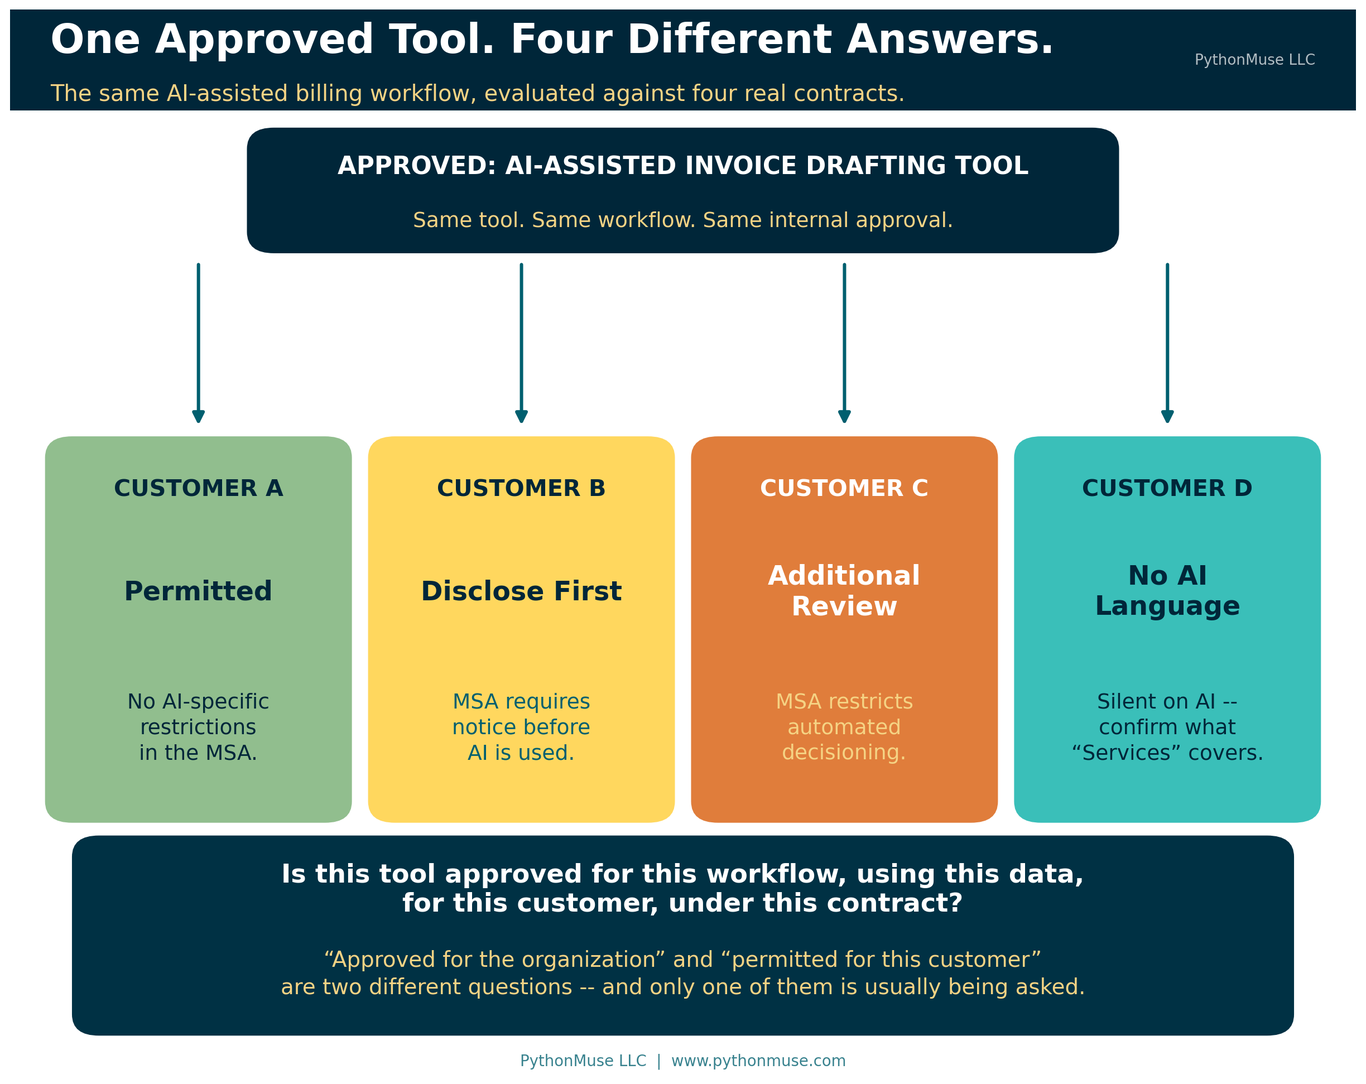
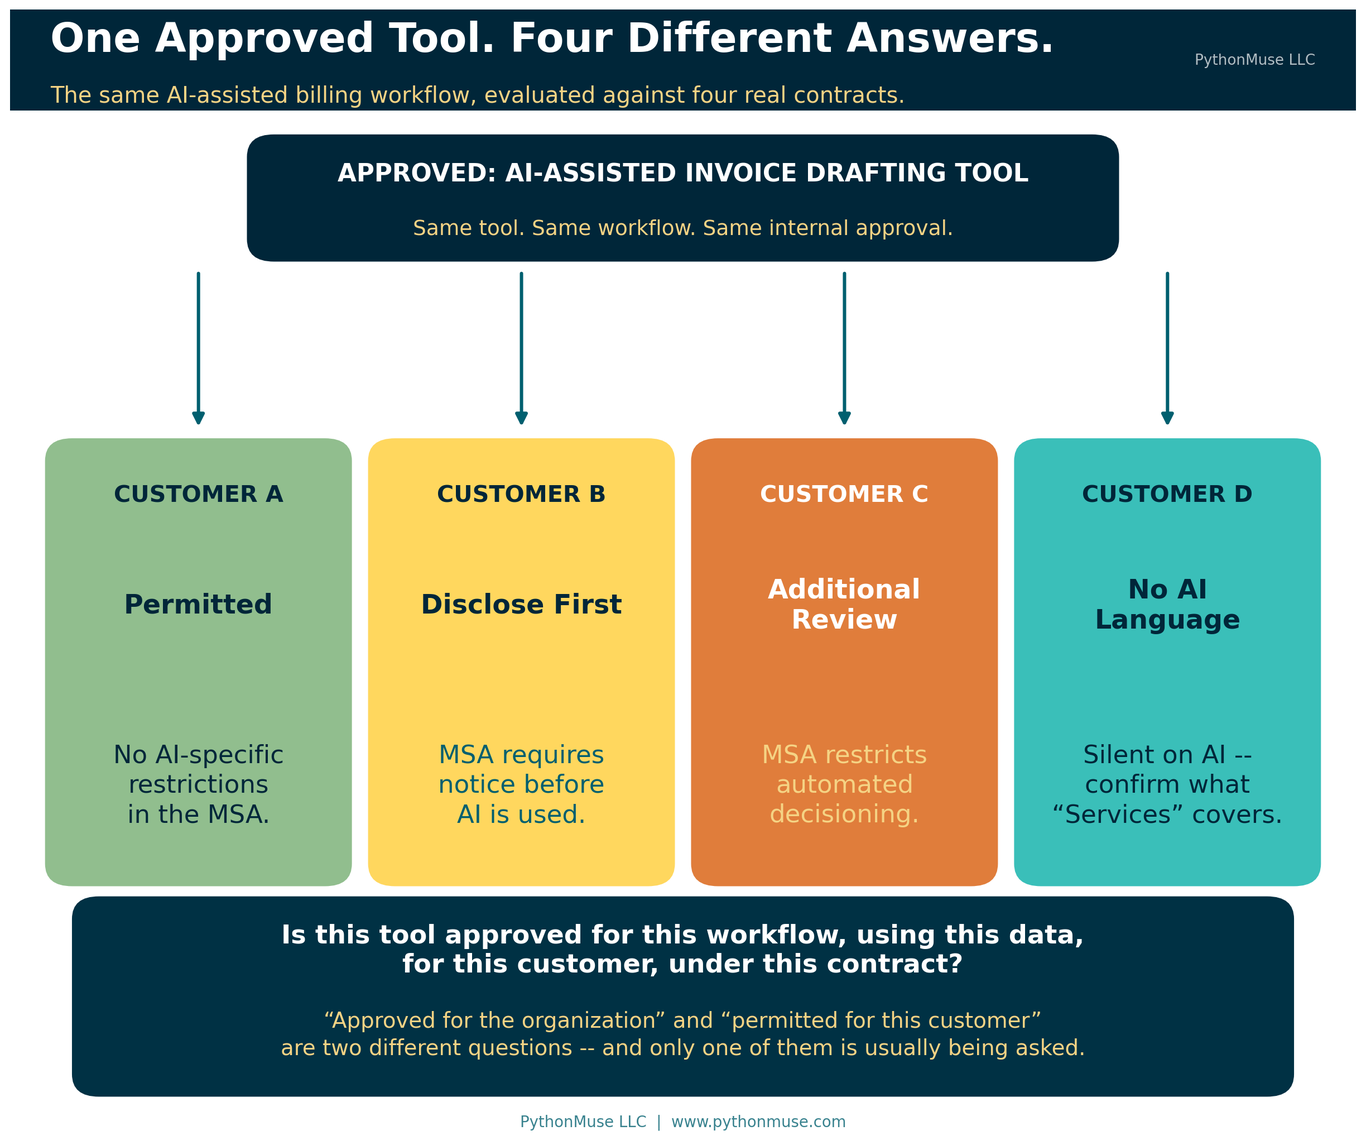
Further enlarge text in four Article 38 visuals per feedback
- 38_customer_dimension.png: enlarged the bottom (contract-verdict)
  line in each of the four customer cards; grew the card height and
  figure size to keep it inside the box.
- 38_process_vs_train.png: enlarged the header subtitle, the
  secondary 'What it means' / source labels in both cards, and the
  bottom banner's explanatory paragraph; fixed a resulting overflow
  where the last row dropped below the card's bottom edge.
- 38_service_layers.png: enlarged the bolded punchline line in each
  layer's card and wrapped the two longest ones onto a second line so
  the Layer 2 line ('This is where AI shows up first...') no longer
  runs past the card boundary.
- 38_social_square.png: the second line in each of the top two boxes
  is now uppercase (matching the title above it, not lowercase) and
  enlarged, wrapped onto two lines to stay inside the box.

Also includes the article's own minor copy trim (unrelated, made
directly in the working file).

diff --git a/articles/38-ai-workflow-customer-contract/generate_visuals.py b/articles/38-ai-workflow-customer-contract/generate_visuals.py
@@ -218,17 +218,17 @@ LAYERS3 = [
      "Clear."),
     ("LAYER 2\nSUPPORTING\nACTIVITIES", OCEAN_TEAL,
      "Schedule the appointment. Create the work order. Draft the invoice.",
-     "This is where AI shows up first — and the AI never touches the oil filter.",
+     "This is where AI shows up first —\nand the AI never touches the oil filter.",
      "Depends how 'Services' is defined."),
     ("LAYER 3\nINTERNAL\nANALYSIS", SEA_GREEN,
      "Profitability analysis. Forecasting. Management reporting.",
-     "Still uses the customer's information, several steps removed.",
+     "Still uses the customer's information,\nseveral steps removed.",
      "Rarely what the drafter had in mind."),
 ]
 
 
 def make_service_layers():
-    fig, ax = blank_axes((13.4, 11.4))
+    fig, ax = blank_axes((13.4, 12.4))
     add_header_bar(fig, "Where Does the Service Actually End?",
                    "The same customer engagement, in three layers -- and AI doesn't stay in layer one.",
                    height=0.088)
@@ -246,12 +246,19 @@ def make_service_layers():
                     linespacing=1.3)
         rounded_box(ax, (body_x, y), body_w, row_h, LIGHT_GRAY,
                     text_color=DEEP_NAVY, text="", edge=OCEAN_TEAL, lw=1.1)
-        ax.text(body_x + 0.028, y + row_h * 0.76, doing, fontsize=17.5,
+        ax.text(body_x + 0.028, y + row_h * 0.83, doing, fontsize=17.5,
                 color=DEEP_NAVY, ha="left", va="center", zorder=4)
-        ax.text(body_x + 0.028, y + row_h * 0.48, note, fontsize=17.5,
+        # The bolded "punchline" line -- enlarged per feedback, and the one
+        # long enough (Layer 2) to need a manual line break to stay inside
+        # the card at the larger size. The figure was made taller (12.4in,
+        # up from 11.4in) rather than growing row_h, so this row keeps the
+        # same fraction of the layout but gets more physical inches to work
+        # with -- see the Standard Color Constants comment on BOX_PAD for
+        # why growing figsize beats growing fractional coordinates here.
+        ax.text(body_x + 0.028, y + row_h * 0.48, note, fontsize=19,
                 fontweight="bold", color=OCEAN_TEAL, ha="left", va="center",
                 zorder=4, linespacing=1.25)
-        ax.text(body_x + 0.028, y + row_h * 0.17, "MSA reach: " + clarity,
+        ax.text(body_x + 0.028, y + row_h * 0.12, "MSA reach: " + clarity,
                 fontsize=17, color=DEEP_NAVY, ha="left", va="center",
                 zorder=4, style="italic")
 
@@ -280,12 +287,12 @@ def make_service_layers():
 # 3. Processing vs. training -- two different questions, two different answers
 # ---------------------------------------------------------------------------
 def make_process_vs_train():
-    fig, ax = blank_axes((13.4, 10.6))
+    fig, ax = blank_axes((13.4, 12.0))
     add_header_bar(fig, "Using the Data Is Not the Same as Training on It",
                    "Same document, two separate questions -- and the contract may answer them differently.",
-                   height=0.095)
+                   height=0.100, subtitle_size=18.5)
 
-    card_top, card_bottom = 0.845, 0.300
+    card_top, card_bottom = 0.845, 0.280
     card_h = card_top - card_bottom
     left_x, right_x, card_w = 0.04, 0.52, 0.44
 
@@ -301,13 +308,13 @@ def make_process_vs_train():
         ("Microsoft Copilot", "Graph data not used to train"),
         ("OpenAI API", "Not used to train, unless opted in"),
     ]
-    row_top, row_pitch = card_top - 0.128, 0.122
+    row_top, row_pitch = card_top - 0.132, 0.122
 
     y = row_top
     for label, value in left_rows:
-        ax.text(left_x + 0.032, y + 0.028, label, fontsize=16,
+        ax.text(left_x + 0.032, y + 0.030, label, fontsize=18,
                 color=OCEAN_TEAL, ha="left", va="center", zorder=4)
-        ax.text(left_x + 0.032, y - 0.026, value, fontsize=17.5,
+        ax.text(left_x + 0.032, y - 0.028, value, fontsize=17.5,
                 fontweight="bold", color=DEEP_NAVY, ha="left", va="center",
                 zorder=4)
         y -= row_pitch
@@ -326,22 +333,22 @@ def make_process_vs_train():
     ]
     y = row_top
     for label, value in right_rows:
-        ax.text(right_x + 0.032, y + 0.028, label, fontsize=16,
+        ax.text(right_x + 0.032, y + 0.030, label, fontsize=18,
                 color=WARM_GLOW, ha="left", va="center", zorder=4)
-        ax.text(right_x + 0.032, y - 0.026, value, fontsize=17.5,
+        ax.text(right_x + 0.032, y - 0.028, value, fontsize=17.5,
                 fontweight="bold", color=WHITE, ha="left", va="center",
                 zorder=4)
         y -= row_pitch
 
-    rounded_box(ax, (0.04, 0.042), 0.92, 0.225, DEEP_NAVY,
+    rounded_box(ax, (0.04, 0.038), 0.92, 0.225, DEEP_NAVY,
                 text_color=WHITE,
                 text="Same vendor. Different tier. Different answer.",
                 fontsize=20,
                 sub="A contract can permit processing customer data as part of the service while\nseparately prohibiting the use of that data to train, fine-tune, or improve a\nmodel. Get the answer in writing, then match it to what the contract promised.",
-                subsize=16.5, sub_color=WARM_GLOW, linespacing=1.45,
-                title_offset=0.29, sub_offset=0.16)
+                subsize=18, sub_color=WARM_GLOW, linespacing=1.42,
+                title_offset=0.29, sub_offset=0.15)
 
-    fig.text(0.5, 0.013, "PythonMuse LLC  |  www.pythonmuse.com",
+    fig.text(0.5, 0.0115, "PythonMuse LLC  |  www.pythonmuse.com",
              fontsize=11, color=OCEAN_TEAL, ha="center", va="center", alpha=0.78)
 
     save(fig, "38_process_vs_train.png")
@@ -363,16 +370,16 @@ CUSTOMERS = [
 
 
 def make_customer_dimension():
-    fig, ax = blank_axes((13.4, 10.6))
+    fig, ax = blank_axes((13.4, 11.2))
     add_header_bar(fig, "One Approved Tool. Four Different Answers.",
                    "The same AI-assisted billing workflow, evaluated against four real contracts.",
-                   height=0.095)
+                   height=0.090)
 
-    # Header bar occupies the top 0.095 of the figure (down to y=0.905), so
+    # Header bar occupies the top 0.090 of the figure (down to y=0.910), so
     # everything below has to clear that with room to spare.
-    top_w, top_h = 0.64, 0.110
+    top_w, top_h = 0.64, 0.105
     top_x = 0.5 - top_w / 2
-    top_y = 0.775
+    top_y = 0.780
     rounded_box(ax, (top_x, top_y), top_w, top_h, DEEP_NAVY, text_color=WHITE,
                 text="APPROVED: AI-ASSISTED INVOICE DRAFTING TOOL",
                 fontsize=17.5,
@@ -383,7 +390,7 @@ def make_customer_dimension():
     col_w, col_gap = 0.220, 0.020
     total_w = 4 * col_w + 3 * col_gap
     start_x = 0.5 - total_w / 2
-    card_h, card_y = 0.355, 0.240
+    card_h, card_y = 0.390, 0.225
 
     for i, (name, verdict, color, detail) in enumerate(CUSTOMERS):
         x = start_x + i * (col_w + col_gap)
@@ -395,24 +402,27 @@ def make_customer_dimension():
         # will not reliably keep three stacked labels inside a short card.
         rounded_box(ax, (x, card_y), col_w, card_h, color, text="")
         cx = x + col_w / 2
-        ax.text(cx, card_y + card_h * 0.87, name, fontsize=16.5,
+        ax.text(cx, card_y + card_h * 0.88, name, fontsize=16.5,
                 fontweight="bold", color=title_color, ha="center",
                 va="center", zorder=4)
-        ax.text(cx, card_y + card_h * 0.60, verdict, fontsize=19,
+        ax.text(cx, card_y + card_h * 0.63, verdict, fontsize=19,
                 fontweight="bold", color=title_color, ha="center",
                 va="center", zorder=4, linespacing=1.2)
-        ax.text(cx, card_y + card_h * 0.24, detail, fontsize=15,
+        # The bottom section of the card -- the "so what does this contract
+        # actually say" line -- enlarged per feedback; it now needs more
+        # vertical room than the other two lines, hence the taller card.
+        ax.text(cx, card_y + card_h * 0.22, detail, fontsize=18,
                 color=sub_color, ha="center", va="center", zorder=4,
-                linespacing=1.35)
+                linespacing=1.30)
 
-    rounded_box(ax, (0.05, 0.040), 0.90, 0.180, MIDNIGHT_TEAL, text_color=WHITE,
+    rounded_box(ax, (0.05, 0.038), 0.90, 0.170, MIDNIGHT_TEAL, text_color=WHITE,
                 text="Is this tool approved for this workflow, using this data,\nfor this customer, under this contract?",
                 fontsize=18.5,
                 sub="“Approved for the organization” and “permitted for this customer”\nare two different questions -- and only one of them is usually being asked.",
                 subsize=15.5, sub_color=WARM_GLOW, linespacing=1.35,
                 title_offset=0.24, sub_offset=0.20)
 
-    fig.text(0.5, 0.012, "PythonMuse LLC  |  www.pythonmuse.com",
+    fig.text(0.5, 0.0115, "PythonMuse LLC  |  www.pythonmuse.com",
              fontsize=11, color=OCEAN_TEAL, ha="center", va="center", alpha=0.78)
 
     save(fig, "38_customer_dimension.png")
@@ -484,26 +494,29 @@ def make_controls():
 # 6. Social square -- the punchline
 # ---------------------------------------------------------------------------
 def make_social_square():
-    fig, ax = blank_axes((8, 9.6))
-    header_h = 0.150
+    fig, ax = blank_axes((8, 10.8))
+    header_h = 0.135
     add_header_bar(fig, "Did Anyone Read the Contract?",
                    "AI governance has a customer dimension.",
                    height=header_h, title_size=24, subtitle_size=15.5,
                    brand=False)
 
-    rounded_box(ax, (0.06, 0.640), 0.88, 0.165, MIDNIGHT_TEAL,
+    # The second line in each box is now uppercase to match the title above
+    # it (not lowercase, per feedback) and enlarged enough that it needs two
+    # lines to stay inside the box.
+    rounded_box(ax, (0.06, 0.660), 0.88, 0.195, MIDNIGHT_TEAL,
                 text_color=WHITE, text="YOUR AI GOVERNANCE CAN SAY",
                 fontsize=18,
-                sub="documented, tested, reviewed, approved",
-                subsize=16, sub_color=WARM_GLOW,
-                title_offset=0.19, sub_offset=0.25)
+                sub="DOCUMENTED, TESTED,\nREVIEWED, APPROVED",
+                subsize=20, sub_color=WARM_GLOW, linespacing=1.3,
+                title_offset=0.26, sub_offset=0.18)
 
-    rounded_box(ax, (0.06, 0.445), 0.88, 0.165, OCEAN_TEAL,
+    rounded_box(ax, (0.06, 0.440), 0.88, 0.195, OCEAN_TEAL,
                 text_color=WHITE, text="THE MSA CAN STILL SAY",
                 fontsize=18,
-                sub="not without disclosure. not for this decision.",
-                subsize=16, sub_color=WARM_GLOW,
-                title_offset=0.19, sub_offset=0.25)
+                sub="NOT WITHOUT DISCLOSURE.\nNOT FOR THIS DECISION.",
+                subsize=20, sub_color=WARM_GLOW, linespacing=1.3,
+                title_offset=0.26, sub_offset=0.18)
 
     # Both lines belong to `text` so they render at the same weight -- passing
     # the second as `sub` leaves it un-bolded next to a bold first line.

diff --git a/articles/38-ai-workflow-customer-contract/README.md b/articles/38-ai-workflow-customer-contract/README.md
@@ -13,9 +13,7 @@
 
 Imagine this.
 
-Your accounting team spends several weeks building an AI-assisted workflow. The use case is documented. Access is limited. The team identifies the data involved, tests the results, builds in human review, and keeps evidence of the testing. The AI Governance Lead approves the workflow.
-
-You did what good AI governance is supposed to require. Genuinely — this is the part most organizations skip, and your team did it.
+Your accounting team spends several weeks building an AI-assisted workflow. The use case is documented. Access is limited. The team identifies the data involved, tests the results, builds in human review, and keeps evidence of the testing. Finally, the AI Governance Lead approves the workflow.
 
 Then the workflow goes live.
 
@@ -93,8 +91,6 @@ The third includes broader internal activities that may still use customer infor
 
 If a contract limits the use of AI "in connection with the Services," which of those layers does it cover?
 
-That should not be left unclear if the answer affects how the company can operate.
-
 The definition of AI matters just as much.
 
 Contracts may refer to artificial intelligence, machine learning, automated decisioning, or simply automated tools. Those terms can describe very different technologies.
@@ -123,7 +119,7 @@ Consider an AI-assisted billing workflow.
 
 The tool may read project records, employee time, billing instructions, contract terms, and customer correspondence. It may identify missing support, prepare an invoice narrative, calculate charges, or route the draft for review.
 
-From an accounting-control perspective, that workflow may look excellent. It has a defined owner. Access is limited. The results are reviewed. The accountant validates the invoice before it is released. Evidence is retained. If you have been following the [audit-ready workflow framework](../12-audit-ready-ai-workflows/README.md) in this series, it checks every box.
+From an accounting-control perspective, that workflow may look excellent. If you have been following the [audit-ready workflow framework](../12-audit-ready-ai-workflows/README.md) in this series, it checks every box.
 
 But there is now another control question:
 
@@ -142,8 +138,6 @@ Then we build an AI workflow that processes that same customer's data — and ne
 ## Using Customer Data Is Not the Same as Training on Customer Data
 
 There is another distinction worth getting right, because it is the one most likely to be blurred in a hallway conversation.
-
-An AI tool may process customer information without using that information to train the underlying model. Those are not the same activity.
 
 An AI billing tool may need customer project records to prepare a draft invoice. The provider may contractually agree not to use those records to train or improve its models. Another provider may have entirely different terms — retaining inputs, or using information to improve its service unless a particular tier or setting is in place.
 
@@ -177,7 +171,7 @@ They may be a contract compliance control. Which means somebody should be keepin
 
 Organizations should also be careful with the phrase **human in the loop**.
 
-Human review is an important control. This series has argued for it repeatedly. But it does not automatically make every use of AI acceptable, and it is not a universal contractual solvent.
+Human review is an important control. This series has argued for it repeatedly. But it is not a universal contractual solvent.
 
 A contract may prohibit AI not only from *making* a decision but also from *supporting* certain decisions.
 
@@ -213,9 +207,7 @@ So the approval question becomes more specific:
 
 That sounds complicated. The actual control is fairly simple.
 
-The problem today is not that the information is unavailable — it is that it sits in different places. Legal has the contract. Sales knows what was negotiated. IT knows which technology is being used. Accounting and Operations know how customer information moves through the process. The AI Governance Lead knows which use cases have been approved.
-
-Each department may be doing its job correctly while the connection between those pieces is still missing.
+The problem today is not that the information is unavailable. It is scattered across the same departments from the opening — Legal, Sales, IT, Accounting, the AI Governance Lead — and connecting it is nobody's job.
 
 One field added to the AI use-case register can close most of it:
 
@@ -241,15 +233,13 @@ Your company may not be the one that introduced the AI.
 
 A CRM adds an AI assistant. A billing platform adds automated review. A scheduling tool starts generating summaries. A subcontractor quietly starts using AI in its own process.
 
-Nobody launched a formal AI project. Nobody filled out a use-case form. Nobody scheduled a kickoff meeting. The technology simply changed, and it arrived in a release note that went to an IT distribution list.
+Nobody launched a formal AI project. Nobody filled out a use-case form. The technology simply changed, and it arrived in a release note that went to an IT distribution list.
 
 Even the models underneath an approved tool move. Microsoft says plainly that the models powering Copilot "are regularly updated and enhanced" — noting that updates bring improved capability without changing your security, privacy, or compliance settings. That is a reassuring statement about configuration, and it is also a reminder that the thing you evaluated in March is not necessarily the thing running in September. [Model Selection Is an Accounting Control](../36-model-selection-is-a-control/README.md) makes the case that model changes deserve change control; this is the contractual reason why.
 
 That is why AI approval cannot be treated as permanent.
 
-A workflow deserves another look when the data changes, a new customer is added, a different model or vendor is introduced, access expands, or the workflow begins taking actions it did not take before.
-
-And contracts change too. A new customer arrives with different restrictions. An existing MSA is renewed. New language gets negotiated in a renewal that nobody thought to mention to the AI Governance Lead.
+A workflow deserves another look when the data changes, a new customer is added, a different model or vendor is introduced, access expands, the workflow begins taking actions it did not take before — or the contract itself changes: a renewal, a new customer with different restrictions, new language negotiated that nobody thought to mention to the AI Governance Lead.
 
 The workflow you approved six months ago may not be the workflow you are operating today. Nobody changed it. It changed.
 
@@ -257,25 +247,25 @@ The workflow you approved six months ago may not be the workflow you are operati
 
 ## Practical Ways to Reduce the Risk
 
-The answer is not to send every automation idea to Legal. That would slow the organization to a crawl and make AI governance something people route around rather than through — which is worse than having none, because at least then you know where you stand.
+The answer is not to send every automation idea to Legal. That would slow the organization to a crawl and make AI governance something people route around rather than through.
 
 A few targeted controls go a long way.
 
 ![Six controls, and which ones prevent the problem versus detect it](./visuals/38_controls.png)
 
-**Flag AI terms during contract review.** When a new MSA is reviewed, record whether it contains restrictions related to AI, machine learning, automated decisioning, automated tools, model training, or customer data. A simple **AI Restrictions: Yes / No / Review Required** flag may be enough.
+**Flag AI terms during contract review.** A simple **AI Restrictions: Yes / No / Review Required** field on the contract register is enough to start.
 
-**Define the perimeter clearly.** For new contracts, make sure the definitions of Services, AI, and automated tools are clear enough to distinguish direct service delivery from supporting and internal processes.
+**Define the perimeter clearly.** For new contracts, get the definitions of Services, AI, and automated tools tight enough to separate direct delivery from supporting and internal work.
 
-**Add a contract checkpoint to AI approval.** If a workflow uses customer information or supports delivery of customer services, determine whether customer-specific restrictions apply before deployment — not after.
+**Add a contract checkpoint to AI approval.** The register field described above, enforced before deployment rather than after.
 
 **Understand what happens to the data.** Separate processing customer information from retaining it, training on it, or using it to improve a provider's models or services. Record which tier and which settings that answer depends on.
 
 **Map the full workflow.** Do not review only the obvious AI step. Follow customer data through the whole process — service delivery, billing, collections, reporting, and retention.
 
-**Establish re-review triggers.** Changes in data, customers, vendors, models, system access, autonomous actions, or contract terms should prompt another look.
+**Establish re-review triggers.** Write the trigger list from the previous section into the register so it is checked, not remembered.
 
-None of these needs to be complicated. The goal is simply to make sure the right question reaches the right person before the workflow goes live.
+None of these needs to be complicated.
 
 This is also not a novel idea in the standards world, which is worth knowing if you ever need to defend the control to an auditor. The NIST AI Risk Management Framework devotes an entire category to third-party risk: GOVERN 6.1 calls for "policies and procedures ... in place that address AI risks associated with third-party entities," and GOVERN 6.2 asks for contingency processes when third-party AI systems fail. ISO/IEC 42001, the AI management system standard, closes its Annex A controls with a section on third-party and customer relationships. And in the EU, the AI Act's Article 50 transparency obligations — applicable since August 2026 — mean disclosure duties are no longer only a matter of private contract.
 
@@ -326,7 +316,7 @@ Vendor terms change. Every statement above was verified against the linked sourc
 
 ---
 
-**A note on how this article was made.** This article started with me. The observation — that AI clauses are starting to appear in customer MSAs, and that a workflow can pass every internal control while still conflicting with a contract the company already signed — is mine, and it came from reading a real agreement. ChatGPT (5.5 Sol) helped me shape my notes into a first structured draft. Claude Sonnet and Claude Opus reviewed that draft and co-built the practice repository this article points to, which is where the seeded exception cases came from. Claude Code (Claude Opus 5, handing off mid-session to Claude Sonnet 5) then built the final article, the visuals, and the site wiring — the draft carried no external citations at all, so every NIST, ISO, EU AI Act, Microsoft, Anthropic, and OpenAI claim in the published version was researched and verified against the primary source from scratch rather than taken on faith. I reviewed every output, pushed back on things I didn't like, and made all final content decisions. That process — bringing your own experience, using AI to build and iterate, and staying in the editorial seat throughout — is exactly what this series is about.
+**A note on how this article was made.** This article started with me. The observation is mine, and it came from reading a real agreement. ChatGPT (5.5 Sol) helped me shape my notes into a first structured draft. Claude Sonnet and Claude Opus reviewed that draft and co-built the practice repository this article points to, which is where the seeded exception cases came from. Claude Code (Claude Opus 5, handing off mid-session to Claude Sonnet 5) then built the final article, the visuals, and the site wiring — the draft carried no external citations at all, so every NIST, ISO, EU AI Act, Microsoft, Anthropic, and OpenAI claim in the published version was researched and verified against the primary source from scratch rather than taken on faith. I reviewed every output, pushed back on things I didn't like, and made all final content decisions. That process — bringing your own experience, using AI to build and iterate, and staying in the editorial seat throughout — is exactly what this series is about.
 
 ---
 
